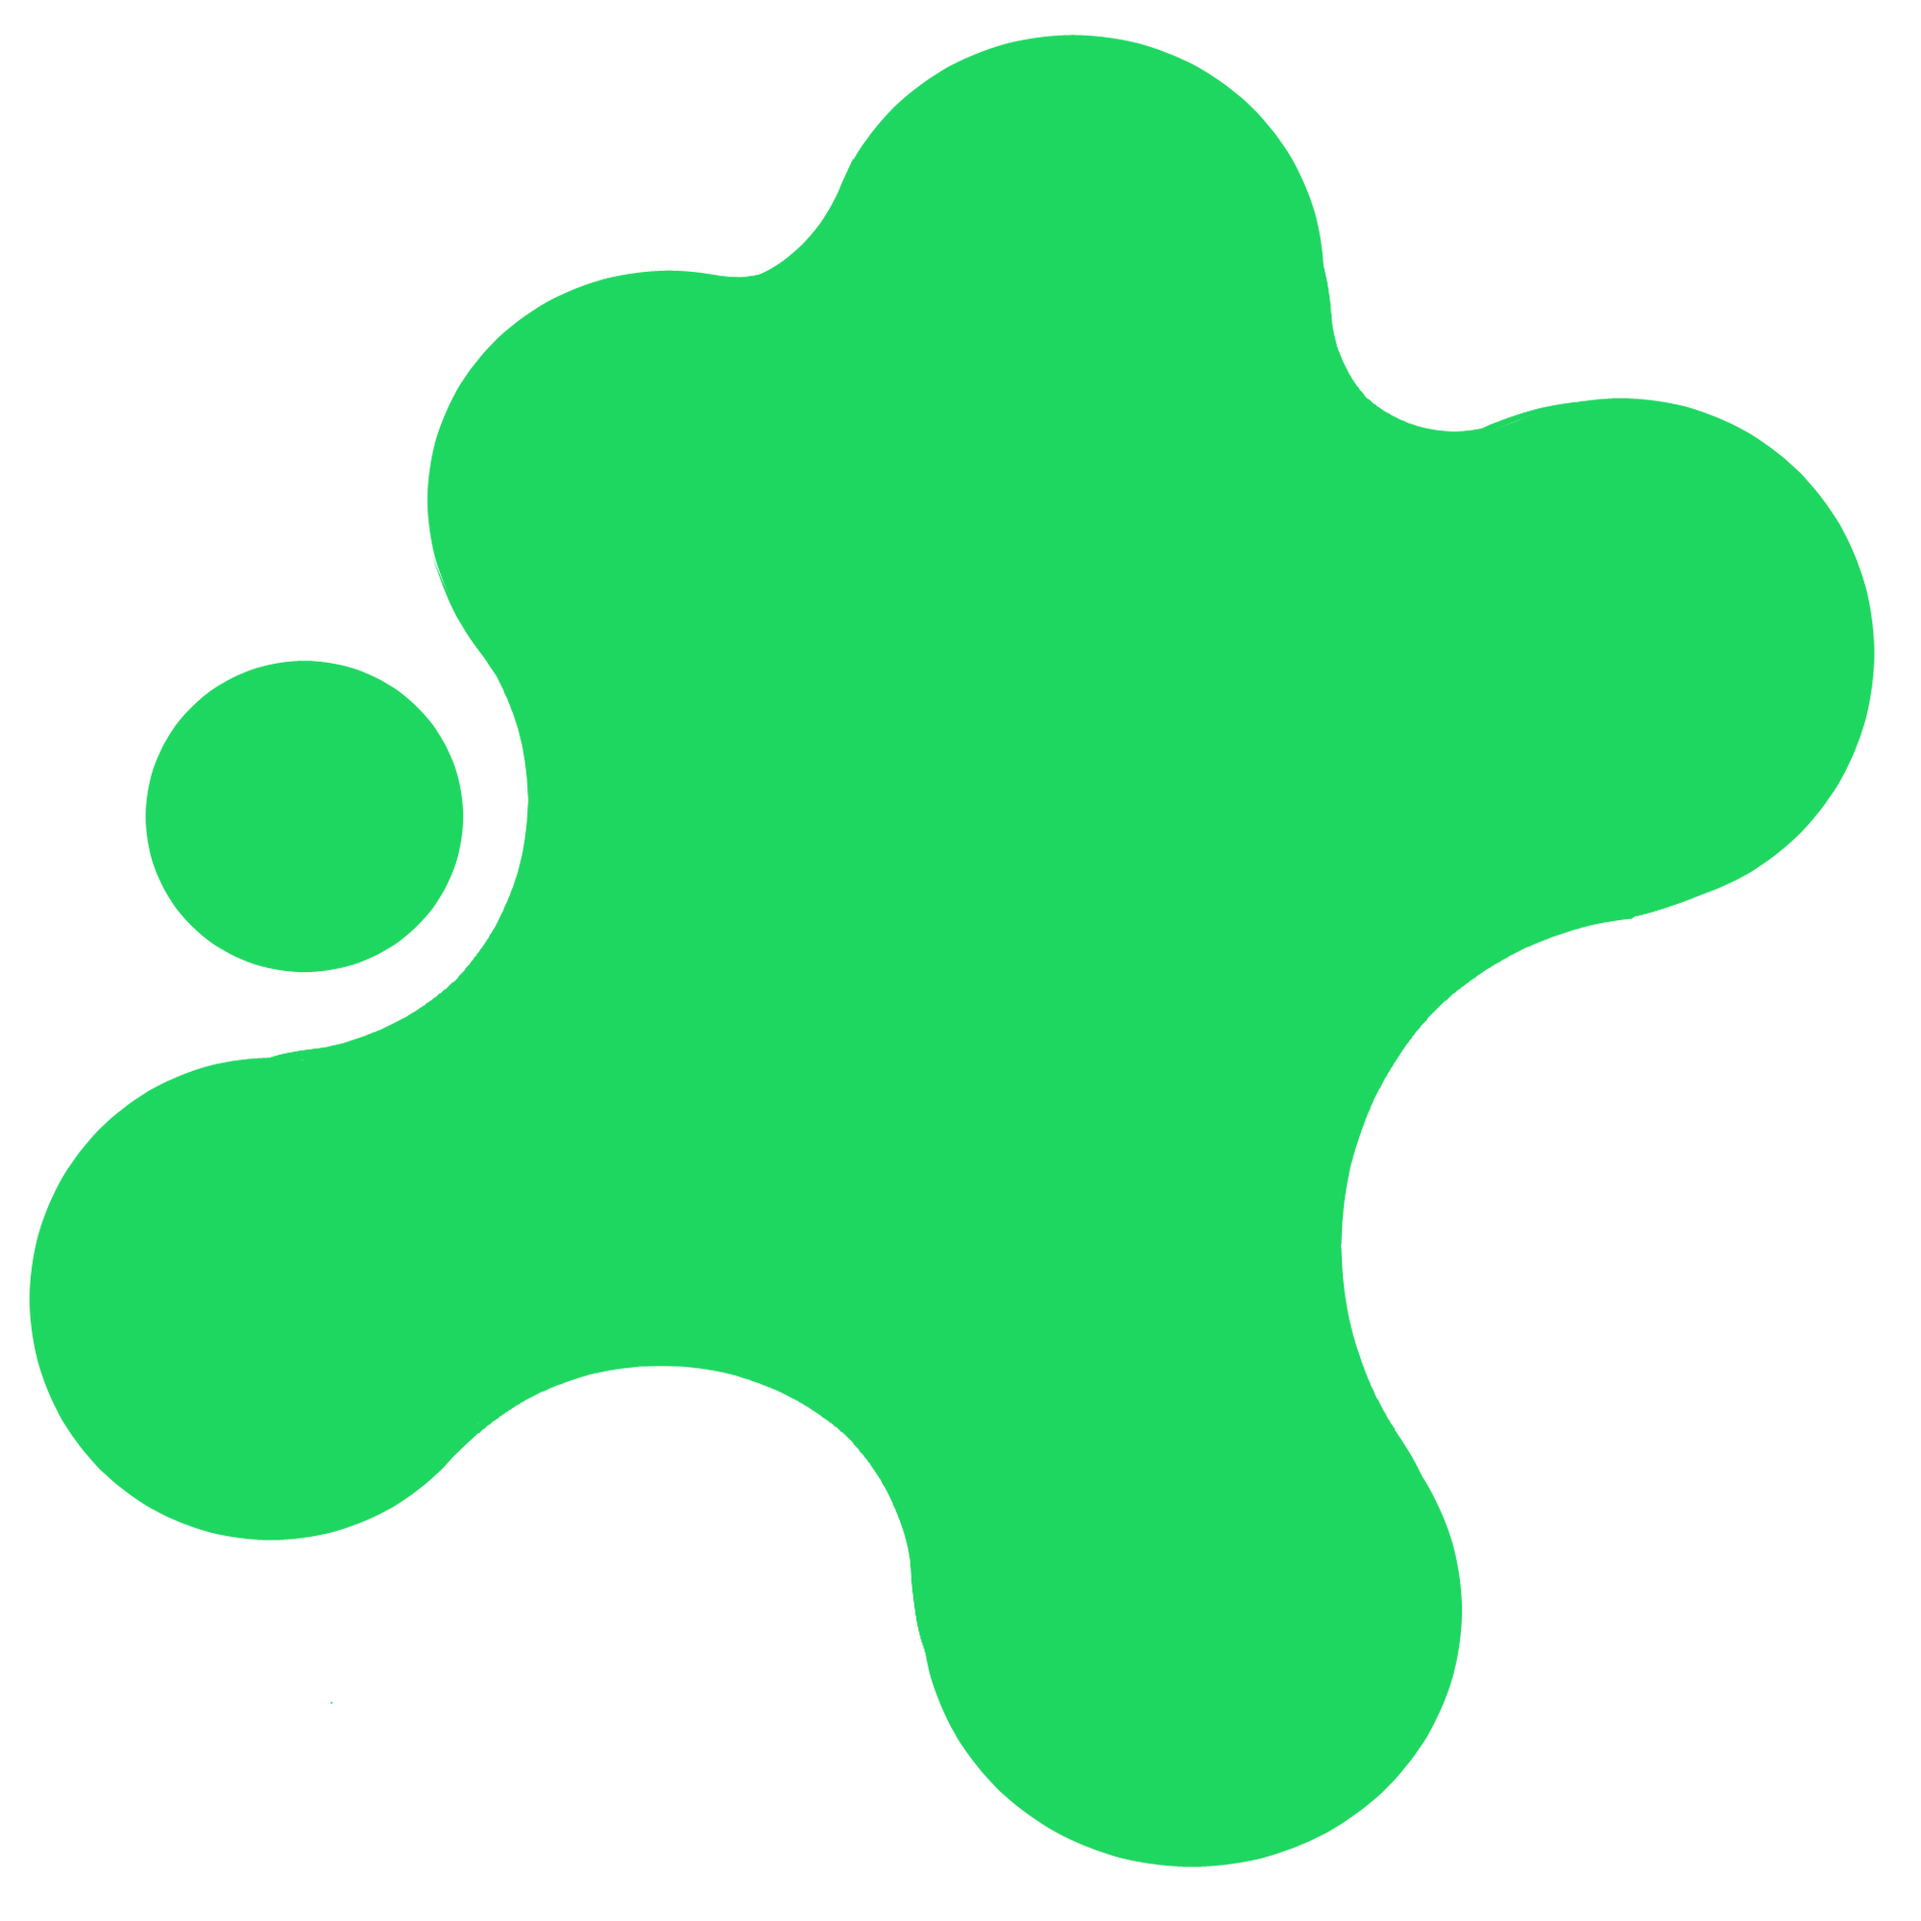
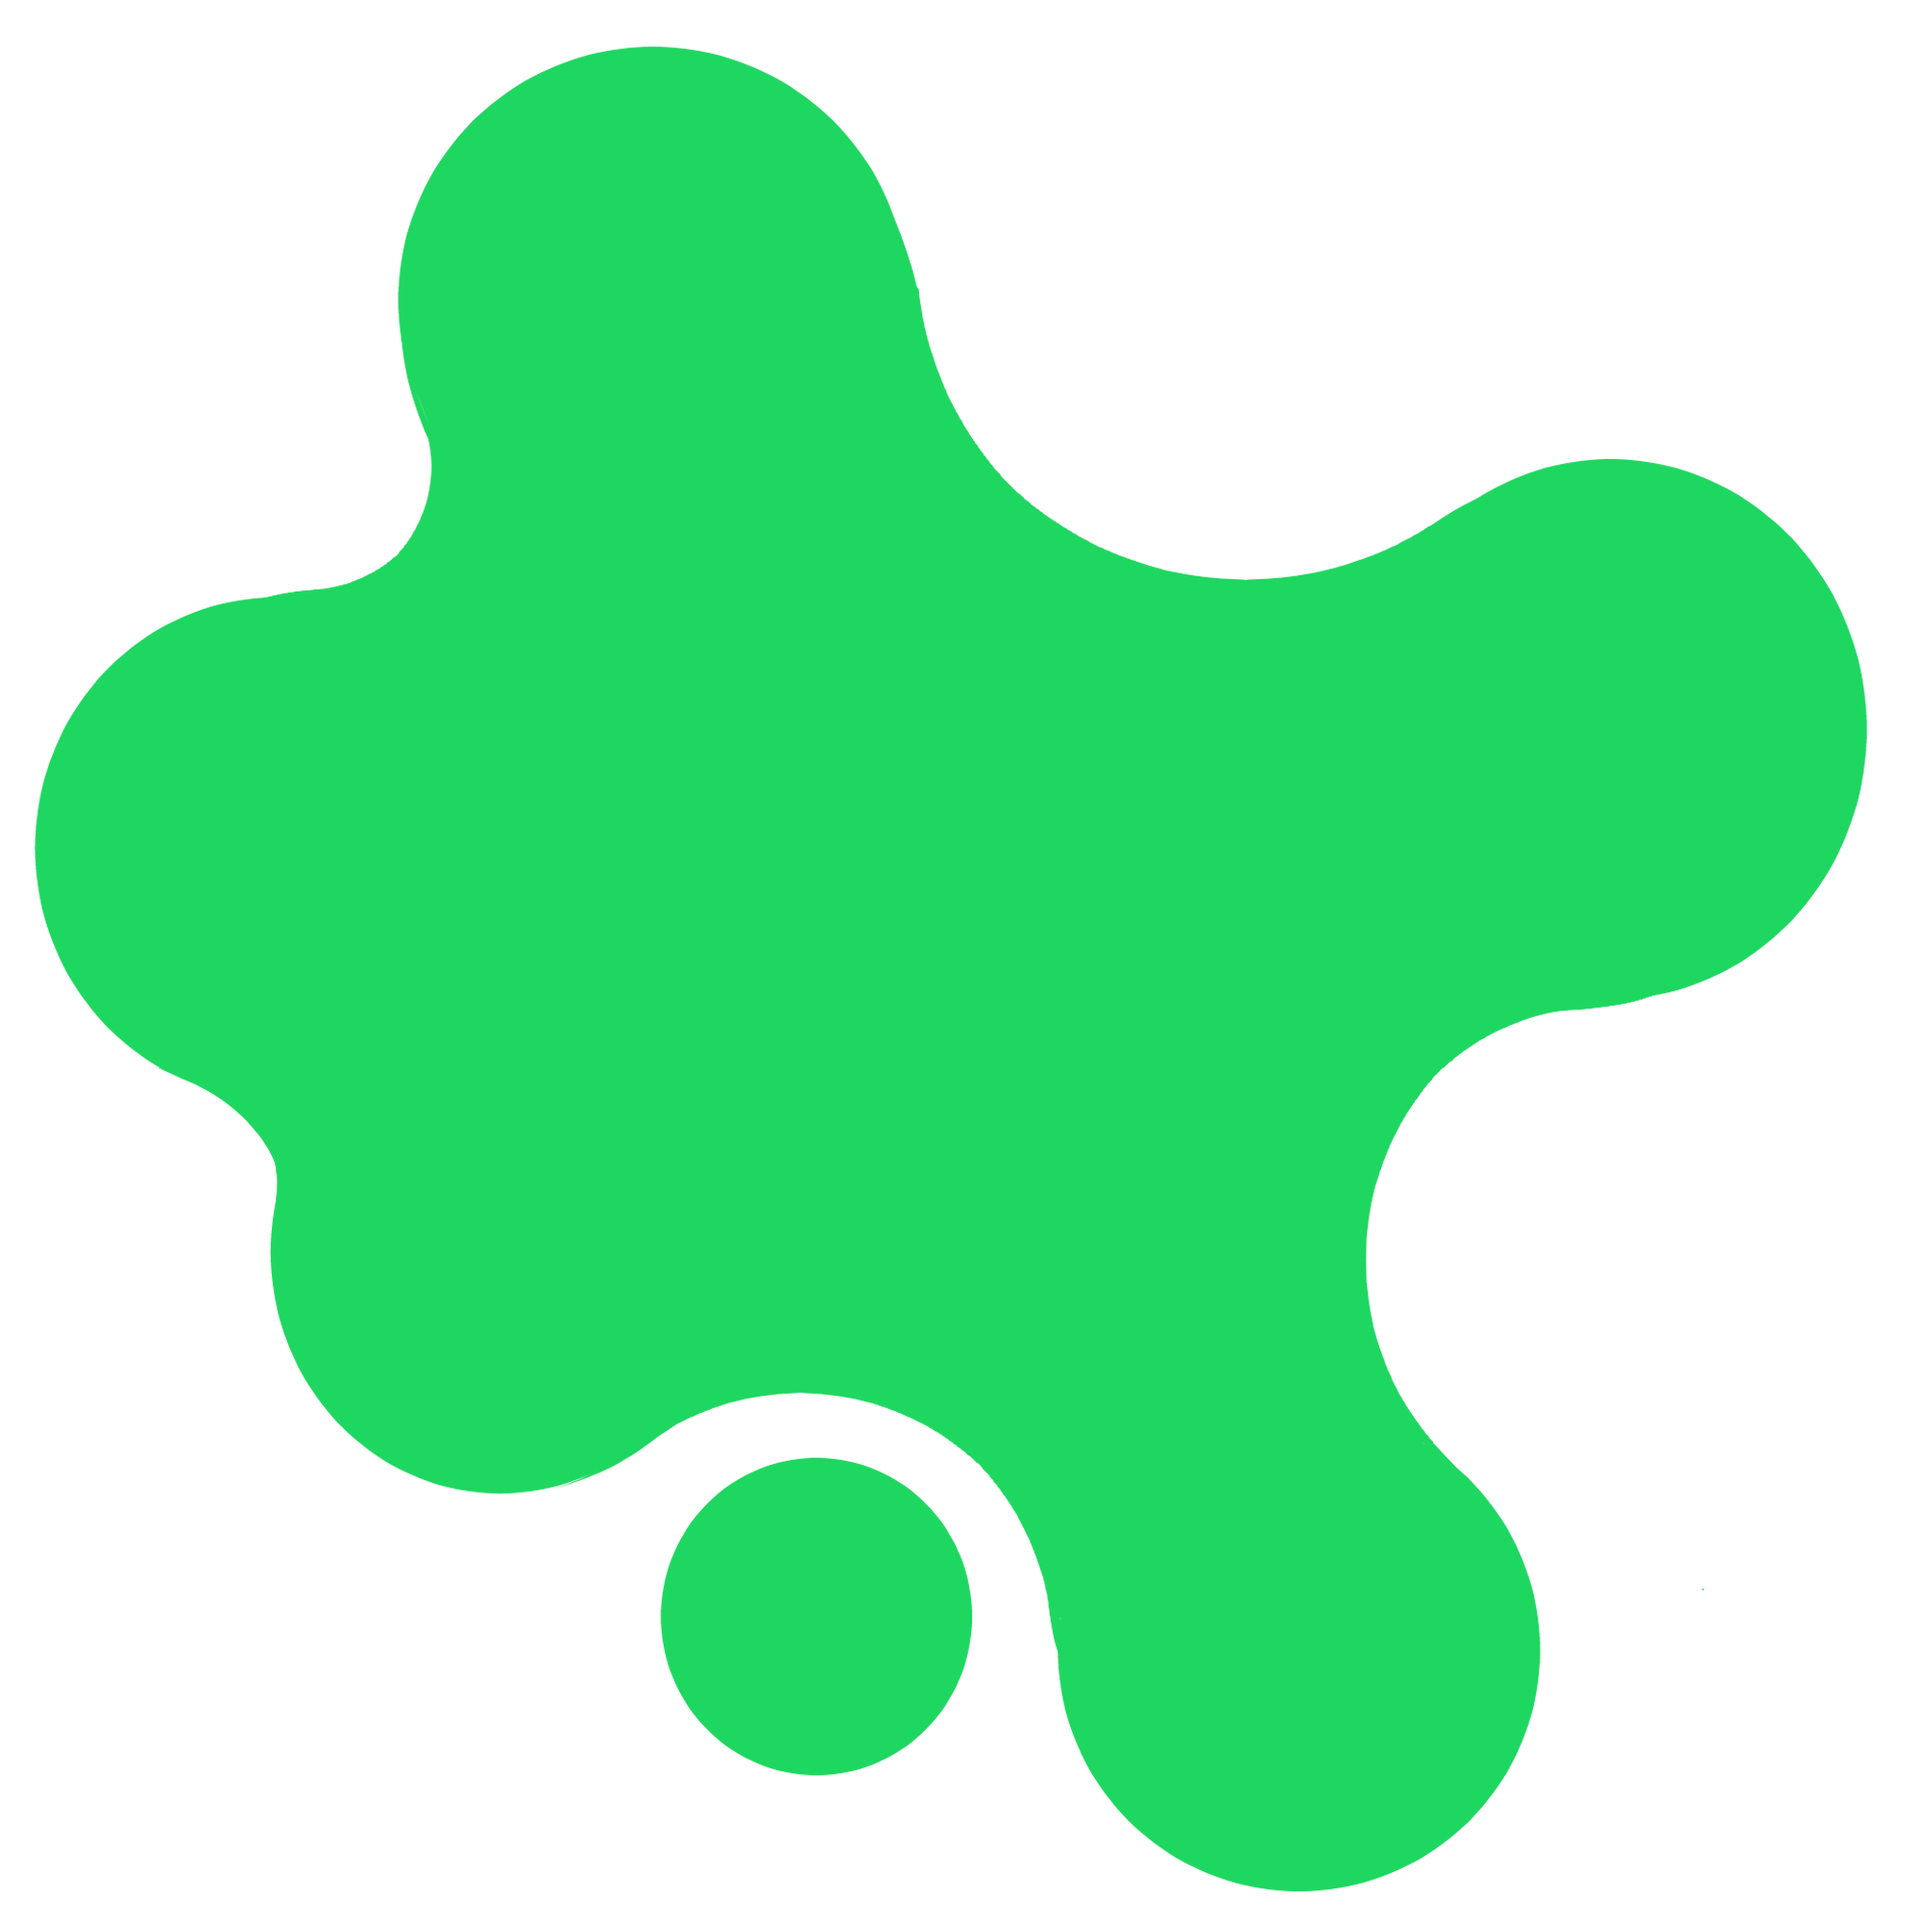
de oculos mask

Changed region(s): [[0.0, 0.0, 0.992, 0.992]]

diff --git a/frontend/bazinga/src/app/bazinga/componentes/inicio/inicio.component.scss b/frontend/bazinga/src/app/bazinga/componentes/inicio/inicio.component.scss
@@ -7,34 +7,40 @@
 }
 
 .container-camisa{
-
+  width: max-content;
+  position: absolute;
+  display: grid;
+  grid-template-rows: 1fr;
+  grid-template-columns: 1fr;
+  align-items: center;
+  justify-items: center;
 }
 
 .emVolta{
-  max-width: 40rem;
-  position: absolute;
+  width: 33.7rem;
   object-fit: cover;
-  margin-inline: auto;
   animation: changeShadow 4s linear infinite; /* Adicionando animações */
+  grid-column: 1 / 1;
+  grid-row: 1 / 1;
 }
 
 .dentro{
   max-width: 60rem;
   position: relative;
   z-index: 2;
-  margin-left: -17em;
-  transition: transform 0.5s ease-in-out , filter 0.2s ease-in-out;
+  transition: transform 0.5s ease-in-out , filter 0.2s ease-in-out, mask-image 1s ease-in-out;
   filter: grayscale(40%) blur(2px) ; /* Aplica um desfoque de 5 pixels */
+  mask-image: url("/assets/Davizord site splat.png");
+  mask-size: contain;
+  mask-repeat: repeat;
+  mask-position: center;
 
-  //mask-image: url("/assets/Davizord site splat2 - Copia.png");
-  //mask-size: contain;
-  //mask-repeat: repeat;
-  //mask-position: center;
+  grid-column: 1 / 1;
+  grid-row: 1 / 1;
 
   &:hover{
     mask-image: none;
-    transform: scale(1.05)
-    translate(-1em);
+    transform: scale(1.05) translate(-1em);
     filter: none; /* Aplica um desfoque de 5 pixels */
 
   }

diff --git a/frontend/bazinga/src/app/bazinga/bazinga.module.ts b/frontend/bazinga/src/app/bazinga/bazinga.module.ts
@@ -4,7 +4,6 @@ import {HomeComponent} from "./componentes/home/home.component";
 import {InicioComponent} from "./componentes/inicio/inicio.component";
 import {BazingaRoutingModule} from "./bazinga-routing.module";
 import {DefaultNavbarComponent} from "../shared/components/default-menu/default-navbar/default-navbar.component";
-import {FooterComponent} from "../shared/components/footer/footer.component";
 
 
 
@@ -13,7 +12,7 @@ import {FooterComponent} from "../shared/components/footer/footer.component";
   imports: [
     BazingaRoutingModule,
     CommonModule,
-    DefaultNavbarComponent,
-    FooterComponent]
+    DefaultNavbarComponent
+    ]
 })
 export class BazingaModule { }

diff --git a/frontend/bazinga/src/app/bazinga/componentes/inicio/inicio.component.html b/frontend/bazinga/src/app/bazinga/componentes/inicio/inicio.component.html
@@ -1,7 +1,7 @@
 <div class="camisa">
   <div class="container-camisa">
-      <img class="emVolta" src="assets/Davizord%20site%20splat2.png" alt="">
+      <img class="emVolta" src="assets/Davizord%20site%20splat.png" alt="">
     <img class="dentro" src="assets/3d_male_t_shirt_crew_neck_short_sleeve_esport_design_01.png" alt="Camisa">
   </div>
 </div>
-<app-footer></app-footer>
+<!--<app-footer></app-footer>-->

diff --git a/frontend/bazinga/src/styles.scss b/frontend/bazinga/src/styles.scss
@@ -32,6 +32,7 @@ body {
   margin: 0;
   font-family: Nunito, Roboto, sans-serif !important;
   transition: background-color 0.5s ease, color 0.5s ease;
+  overflow: hidden;
 }
 
 .light-mode {
